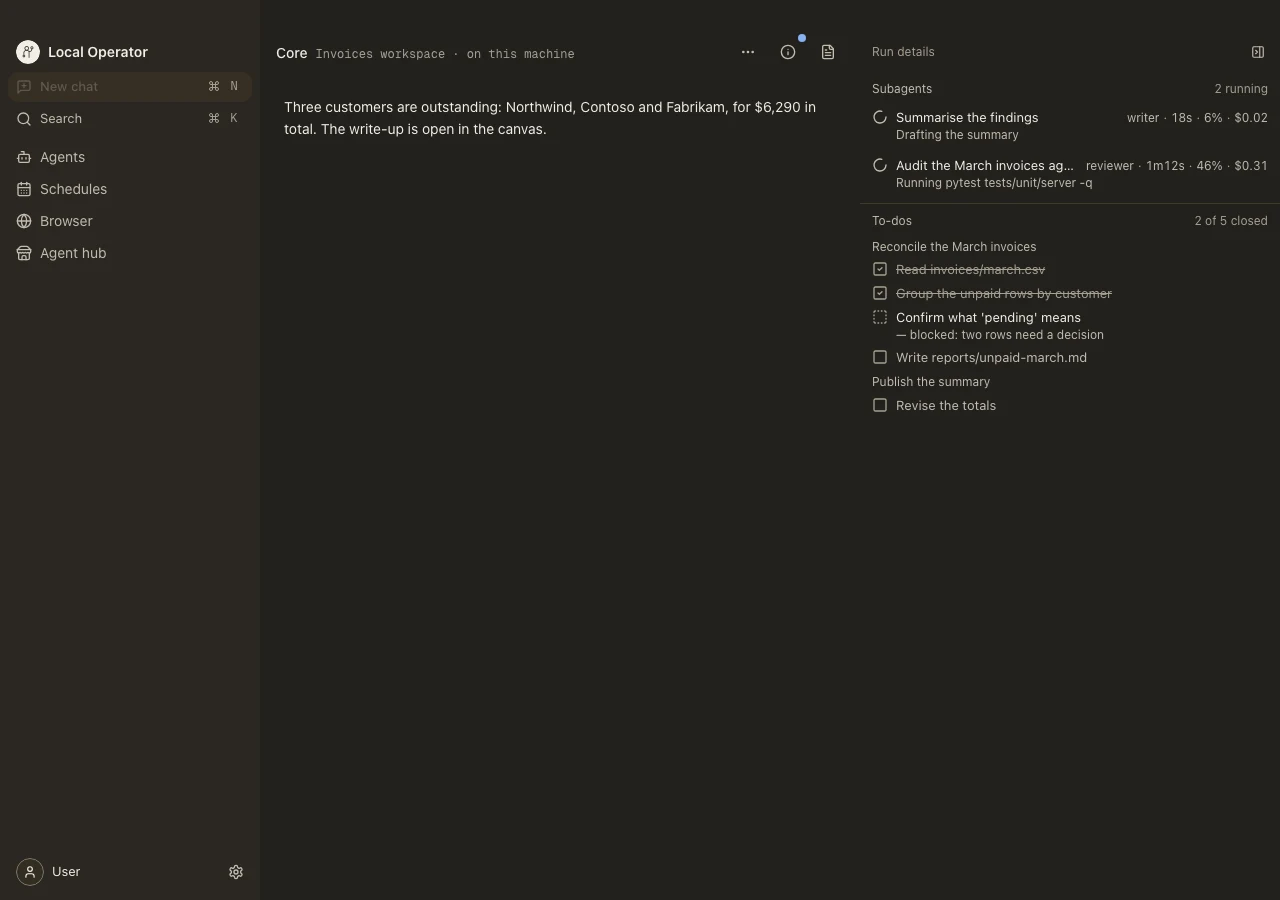
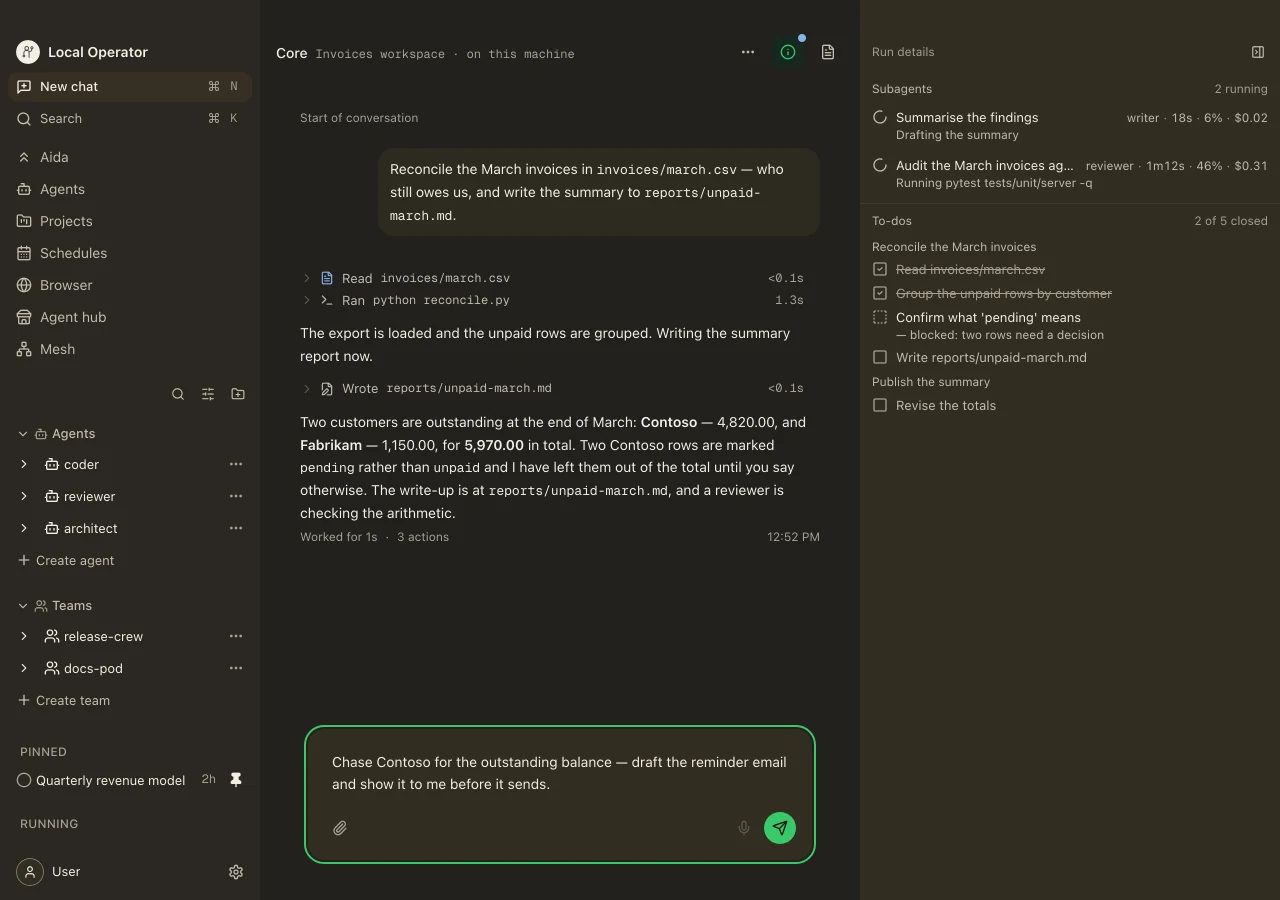
docs(readme): refresh the opening pair and add subagents, teams and media
README and resources/readme only.

The opening pair on main predates the rail's Aida/Projects/Mesh rows and
shows a sparse transcript without its composer. Swap both themes for the
re-captured hero of the 2026-09-28 docs library - same scene, current UI -
converted at 1280x900 webp q88 so each file stays far under the README's
image budget.

Add the three scenes the previous round did not carry - subagents, teams
and media in a conversation - as light/dark pairs under the existing
"What it looks like" strip, with captions read off the frames.

diff --git a/README.md b/README.md
@@ -86,6 +86,30 @@ The Local Operator backend is bundled with the application and is installed auto
 
 <sub><code>chat</code> — a working agent's tool rows, a blocked risky action, and the question it asked before continuing.</sub>
 
+### Subagents
+
+| Light | Dark |
+| :---: | :---: |
+| <img src="./resources/readme/subagents-light.webp" alt="Light theme: the run details panel, two subagents running with their elapsed time and cost, and the shared to-do list." width="420"> | <img src="./resources/readme/subagents-dark.webp" alt="Dark theme: the same run details panel." width="420"> |
+
+<sub><code>subagents</code> — two helpers working one request, each with its own elapsed time, context use and cost.</sub>
+
+### Teams
+
+| Light | Dark |
+| :---: | :---: |
+| <img src="./resources/readme/teams-light.webp" alt="Light theme: the agents and teams page, with the release-crew roster: its manager agent, members and collaboration instructions." width="420"> | <img src="./resources/readme/teams-dark.webp" alt="Dark theme: the same teams page." width="420"> |
+
+<sub><code>teams</code> — agents grouped under a manager, with a roster, collaboration instructions and a project brief.</sub>
+
+### Media in a conversation
+
+| Light | Dark |
+| :---: | :---: |
+| <img src="./resources/readme/media-in-conversation-light.webp" alt="Light theme: a conversation holding a pasted chart and a bar chart the agent plotted, rendered under the tool row that made it." width="420"> | <img src="./resources/readme/media-in-conversation-dark.webp" alt="Dark theme: the same conversation." width="420"> |
+
+<sub><code>media</code> — a chart pasted in by hand and one the agent plotted, both rendered inline in the transcript.</sub>
+
 ### Agent hub
 
 | Light | Dark |
